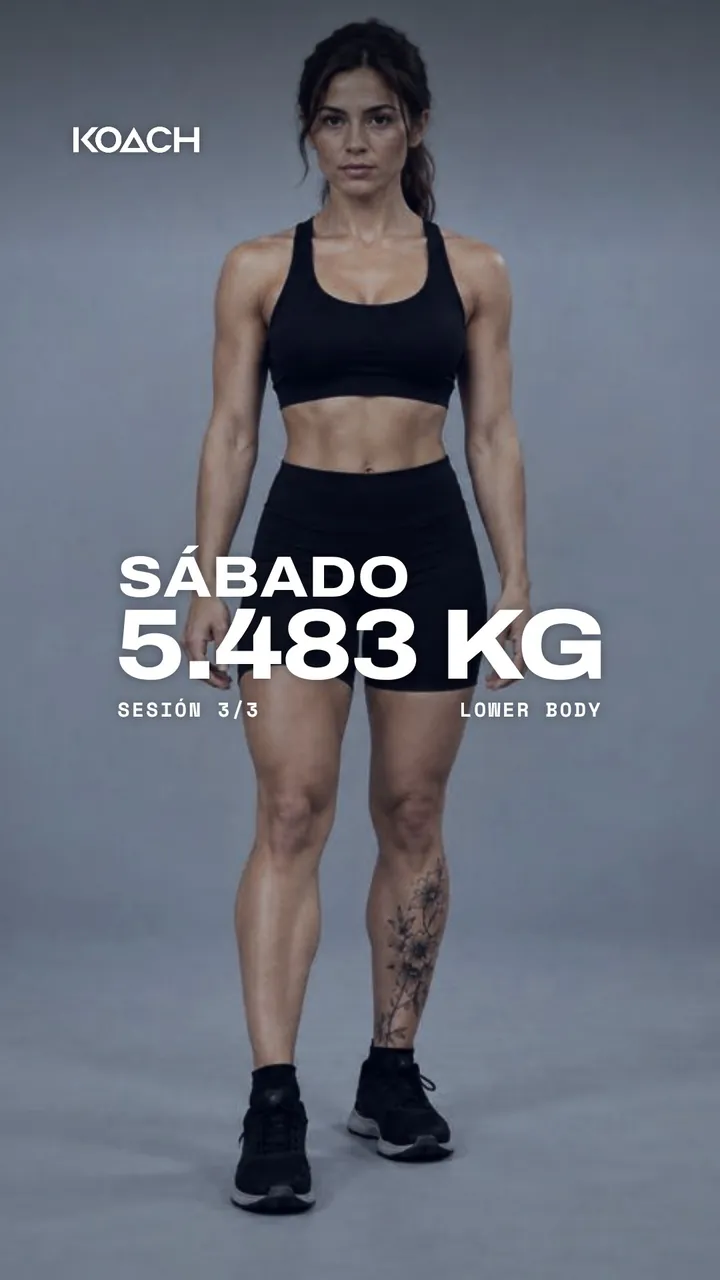
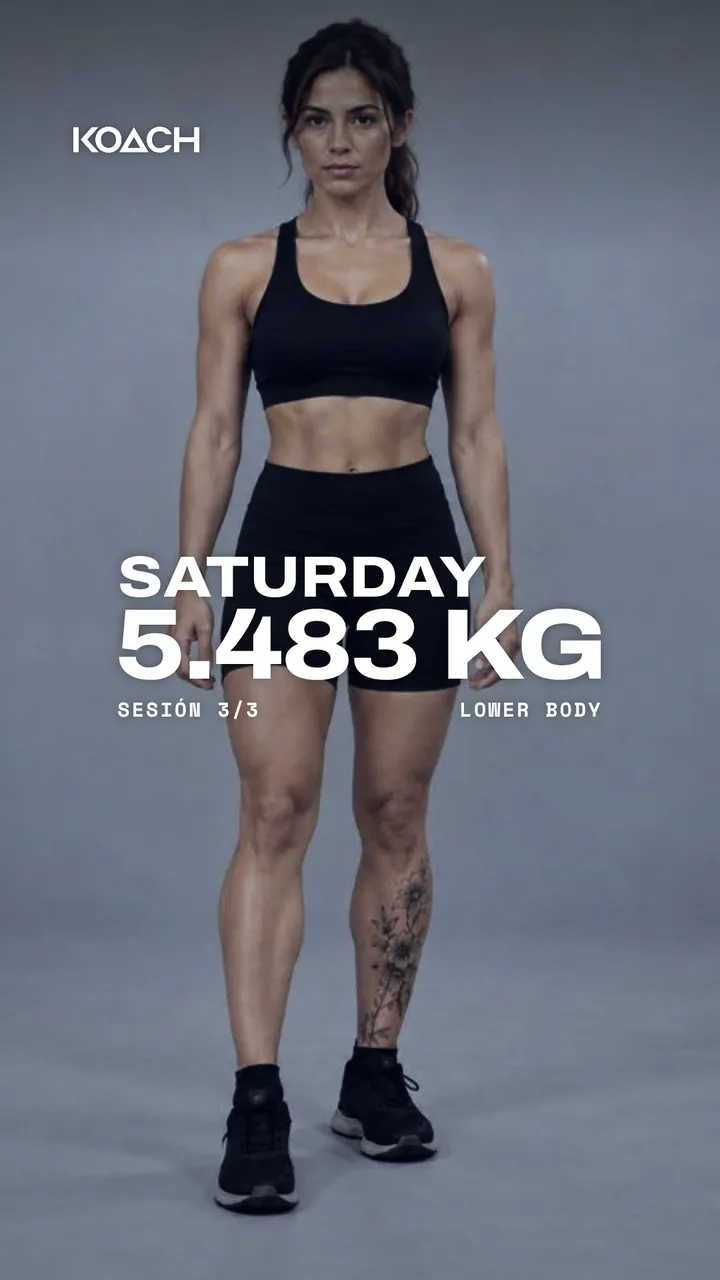
c189 DÍA · nombre del día en inglés (MONDAY…SUNDAY)
Claude-Session: https://claude.ai/code/session_01QnMkkcbjYXJUxkkhVef7UG

Changed region(s): [[0.2139, 0.0, 0.7333, 0.9688]]

diff --git a/app.html b/app.html
@@ -8076,7 +8076,7 @@ function kaDia(ctx) {
   const g = ctx.createLinearGradient(0, 0, 0, H); g.addColorStop(0, 'rgba(18,18,18,.4)'); g.addColorStop(.2, 'rgba(18,18,18,0)'); g.addColorStop(.42, 'rgba(18,18,18,.12)'); g.addColorStop(.6, 'rgba(18,18,18,.12)'); g.addColorStop(.85, 'rgba(18,18,18,0)'); ctx.fillStyle = g; ctx.fillRect(0, 0, W, H);
   const F = (w, s) => w + " semi-expanded " + s + "px 'KOACH Display', 'Inter Display', Arial, sans-serif", M = s => "700 " + s + "px 'Space Mono', 'IBM Plex Mono', monospace";
   const f = j.fecha ? new Date(String(j.fecha).slice(0, 10) + 'T12:00:00') : new Date();
-  const dia = ['DOMINGO', 'LUNES', 'MARTES', 'MIÉRCOLES', 'JUEVES', 'VIERNES', 'SÁBADO'][f.getDay()];
+  const dia = ['SUNDAY', 'MONDAY', 'TUESDAY', 'WEDNESDAY', 'THURSDAY', 'FRIDAY', 'SATURDAY'][f.getDay()];
   const kg = Math.round(+j.tonelaje || 0).toLocaleString('es-CL') + ' KG';
   let s = 150; ctx.font = F(900, s); if ('letterSpacing' in ctx) ctx.letterSpacing = '-4px';
   while (ctx.measureText(kg).width > W - 2 * KS_SAFE_X && s > 80) { s -= 4; ctx.font = F(900, s) }
